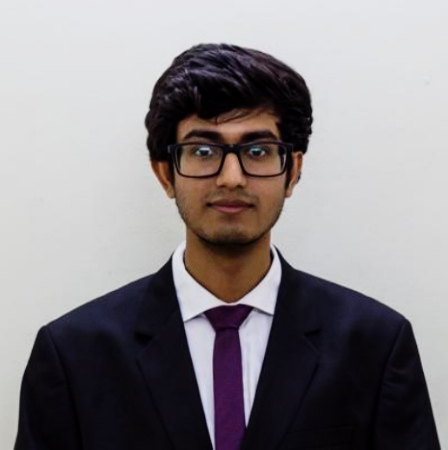
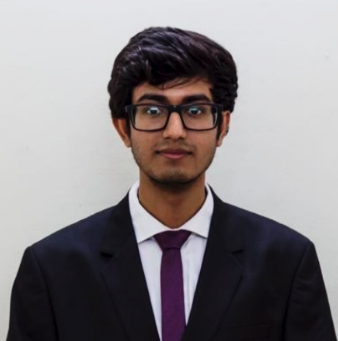
removed old images

diff --git a/_site/index.html b/_site/index.html
@@ -138,8 +138,8 @@
         <!-- Profile info -->
         <div id="profile_info">
             <h1 id="name" class="transition-02">Nandan Thakur</h1>
-            <h4 class="line">GRAPHIC &amp; DATA SCIENCE ASPIRANT</h4>
-            <h6><span class="fa fa-map-marker"></span> New Delhi , India</h6>
+            <h4 class="line">DATA SCIENTIST</h4>
+            <h6><span class="fa fa-map-marker"></span> Bangalore, India</h6>
         </div>
         <!-- End Profile info -->  
     	
@@ -147,7 +147,7 @@
         <!-- Profile Description -->
         <div id="profile_desc">
             <p>
-            	.
+            	Hi, I am Nandan Thakur.
             </p>
             
         </div>
@@ -157,10 +157,10 @@
         <!-- Name -->
          <div id="profile_social">
             <h6>My Social Profiles</h6>
-			
-            <a href="http://www.facebook.com"><i class="fa fa-facebook"></i></a>
-            <a href="http://www.twitter.com"><i class="fa fa-twitter"></i></a>
-            <a href="http://www.linkedin.com"><i class="fa fa-linkedin"></i></a>
+			<a></a>
+            <a href="http://www.facebook.com/nandan.thakur.7"><i class="fa fa-facebook"></i></a>
+            <a href="http://www.twitter.com/Nthakur20"><i class="fa fa-twitter"></i></a>
+            <a href="http://www.linkedin.com/in/nthakur20/"><i class="fa fa-linkedin"></i></a>
             <div class="clear"></div>
         </div>
         <!-- End Name -->  
@@ -230,7 +230,7 @@
  		
         <!--About me-->
         <div class="title_content">
-            <div class="text_content">brown smith</div>
+            <div class="text_content">Nandan Thakur</div>
             <div class="clear"></div>
         </div>
 
@@ -239,57 +239,56 @@
             <li>
                 <i class="glyphicon glyphicon-user"></i>
                 <label>Name</label>
-                <span class="value">Brown Smith</span>
+                <span class="value">Nandan Thakur</span>
                 <div class="clear"></div>
             </li>
 
             <li>
                 <i class="glyphicon glyphicon-calendar"></i>
                 <label>Date of birth</label>
-                <span class="value">March 18, 1988</span>
+                <span class="value">September 5, 1996</span>
                 <div class="clear"></div>
             </li>
 
             <li> 
                 <i class="glyphicon glyphicon-map-marker"></i>
                 <label>Adress</label>
-                <span class="value">San Francisco , CA</span>
+                <span class="value">New Delhi, India</span>
                 <div class="clear"></div>
             </li>
 
             <li>
                 <i class="glyphicon glyphicon-envelope"></i>
                 <label>Email</label>
-                <span class="value">brown.smith@gmail.com</span>
+                <span class="value">nandant@gmail.com</span>
                 <div class="clear"></div>
             </li>
 
             <li>
                 <i class="glyphicon glyphicon-phone"></i>
                 <label>Phone</label>
-                <span class="value">+123 (21) 1234-5678</span>
+                <span class="value">(+91) 7767012929</span>
                 <div class="clear"></div>
             </li>
-
+<!--
             <li>
                 <i class="glyphicon glyphicon-globe"></i>
                 <label>Website</label>
                 <span class="value"><a href="#" target="_blank">sc.chinaz.com</a></span>
                 <div class="clear"></div>
             </li>
-
+-->
         </ul>
 
 
         <p style="margin-bottom:20px">
             <i class="fa fa-quote-left"></i>       
-            Lorem ipsum dolor sit amet, consectetur adipiscing elit. Etiam nec nulla sagittis, scelerisque mi vitae, congue turpis. Lorem ipsum dolor sit amet, consectetur adipiscing elit. Etiam nec nulla sagittis, scelerisque mi vitae, congue turpis.
+            Nandan is an impatient comical person who always tries make some impact in this Country using his interdisclipinary knowledge (let's start with a city Atleast...) and believes Data Science and Machine Learning can help make a better future tommorrow and would like to help in any way possible (I am an idealist).
         </p>
         
          <p style="margin-bottom:20px">
             <i class="fa fa-quote-left"></i>       
-            Lorem ipsum dolor sit amet, consectetur adipiscing elit. Etiam nec nulla sagittis, scelerisque mi vitae, congue turpis. 
-
+            Nandan Likes to observe people and likes to solve problems. Nandan always gives his best (atleast tries to) and believes in self-discipline and persevearance. Passionate Chelsea fan, Nandan would never say no to a jog, marathon or any outdoor sport activity.
         </p>
 
     </div>
@@ -298,9 +297,11 @@
     <div class="col-md-6 profile-r">
 
         <div class="cycle-slideshow">
-            <img src="images/img-profile/about_1.jpg" alt="" />
-            <img src="images/img-profile/about_2.png" alt="" />
-            <img src="images/img-profile/about_3.png" alt="" />
+            <img src="images/img-profile/1.jpg" alt="" />
+            <img src="images/img-profile/2.jpg" alt="" />
+            <img src="images/img-profile/3.jpg" alt="" />
+            <img src="images/img-profile/4.jpg" alt="" />
+            <img src="images/img-profile/5.jpg" alt="" />
         </div>
 
     </div>
@@ -313,7 +314,7 @@
 <div class="row" id="services">
 	<div class="col-md-12">
         <div class="title_content">
-            <div class="text_content">My Services 1</div>
+            <div class="text_content">Things I am Good At :</div>
             <div class="clear"></div>
         </div>
 
@@ -322,8 +323,8 @@
             <div class="service">
                 <div class="service-icon"><i class="fa fa-tag"></i></div>
                 <div class="service-detail">
-                    <h6>Making Money</h6>
-                    <p>Fusce quis interdum ipsum.Suspendi suscipit vehicula sapienid mattis. Lorem ipsum amet consectetur.</p>
+                    <h6>Machine Learning</h6>
+                    <p>One line regarding machine learning here.</p>
                 </div>
             </div>
         </div>
@@ -331,8 +332,8 @@
             <div class="service">
                 <div class="service-icon"><i class="fa fa-cogs"></i></div>
                 <div class="service-detail">
-                    <h6>Easy to Customize</h6>
-                    <p>Fusce quis interdum ipsum.Suspendi suscipit vehicula sapienid mattis. Lorem ipsum amet consectetur.</p>
+                    <h6>Data Science</h6>
+                    <p>One line regarding data science here.</p>
                 </div>
             </div>
         </div>
@@ -340,8 +341,8 @@
             <div class="service">
                 <div class="service-icon"><i class="fa fa-arrows-alt"></i></div>
                 <div class="service-detail">
-                    <h6>Moving Let Us Help</h6>
-                    <p>Fusce quis interdum ipsum.Suspendi suscipit vehicula sapienid mattis. Lorem ipsum amet consectetur.</p>
+                    <h6>Back-end</h6>
+                    <p>One line regarding software development here.</p>
                 </div>
             </div>
         </div>
@@ -351,6 +352,7 @@
 
 
 <!-- service 2 -->
+<!--
 <div class="clear"></div>
 <div class="border-list"></div>
 
@@ -413,6 +415,7 @@
     </div>
 </div>
 </div>
+-->
 <!-- end service 2 -->
 
 <div class="clear"></div>
@@ -670,8 +673,8 @@
         <!-- .attributes -->
         <ul class="attributes">
             <li class="first">
-                <h5>Web Developer <span class="duration"><i class="fa fa-calendar color"></i> 2011 - 2013</span></h5>
-                <h6><span class="fa fa-briefcase"></span> Name of Company</h6>
+                <h5>Data Scientist <span class="duration"><i class="fa fa-calendar color"></i> 2018 - Present</span></h5>
+                <h6><span class="fa fa-briefcase"></span> KNOLSKAPE (Bangalore, India)</h6>
                 <p>Lorem ipsum dolor sit amet, consectetur adipiscingVivamus sit amet ligula non lectus cursus egestas. Cras erat lorem, fringilla quis sagittis in, sagittis inNam leo tortor Nam leo tortor Vivamus.</p>
             </li>
             <li>
@@ -2049,10 +2052,9 @@
                     </div>
 
                     <ul>
-                        <li><span class="span-info"><i class="glyphicon glyphicon-map-marker"></i> Adress:</span> San Francisco , CA.<br /><br /></li>
-                        <li><span class="span-info"><i class="glyphicon glyphicon-envelope"></i> Email:</span> brown.smith@gmail.com</li>
-                        <li><span class="span-info"><i class="glyphicon glyphicon-phone"></i> Phone:</span> +123 456 789 111</li>
-                        <li><span class="span-info"><i class="glyphicon glyphicon-globe"></i> Website:</span> www.brown-smith.com</li>
+                        <li><span class="span-info"><i class="glyphicon glyphicon-map-marker"></i> Adress:</span> New Delhi , India.<br /><br /></li>
+                        <li><span class="span-info"><i class="glyphicon glyphicon-envelope"></i> Email:</span> nandant@gmail.com</li>
+                        <li><span class="span-info"><i class="glyphicon glyphicon-phone"></i> Phone:</span> +91 7767012929</li>
                         <li><span class="span-info"><i class="glyphicon glyphicon-comment"></i> Skype:</span> brown-smith-skype</li>
                         <li><span class="span-info"><i class="glyphicon glyphicon-thumbs-up"></i> G. Drive:</span> brown-s-gm@gmail.com</li>
                         <li><span class="span-info"><i class="glyphicon glyphicon-unchecked"></i> Skydrive:</span> brown-s-sk@hotmail.com</li>

diff --git a/index.html b/index.html
@@ -13,13 +13,11 @@ layout: default
 <!-- .slideshow -->
 <ul class="cb-slideshow" id="cb_slideshow" style="display:none">
     <li><span>Image 01</span><div></div></li>
-<!--
     <li><span>Image 02</span><div></div></li>
     <li><span>Image 03</span><div></div></li>
     <li><span>Image 04</span><div></div></li>
     <li><span>Image 05</span><div></div></li>
     <li><span>Image 06</span><div></div></li>
--->
 </ul> 
 <!-- /.slideshow --> 
 
@@ -90,7 +88,7 @@ layout: default
         <!-- Name -->
          <div id="profile_social">
             <h6>My Social Profiles</h6>
-			
+			<a></a>
             <a href="{{site.facebook}}"><i class="fa fa-facebook"></i></a>
             <a href="{{site.twitter}}"><i class="fa fa-twitter"></i></a>
             <a href="{{site.linkedin}}"><i class="fa fa-linkedin"></i></a>
